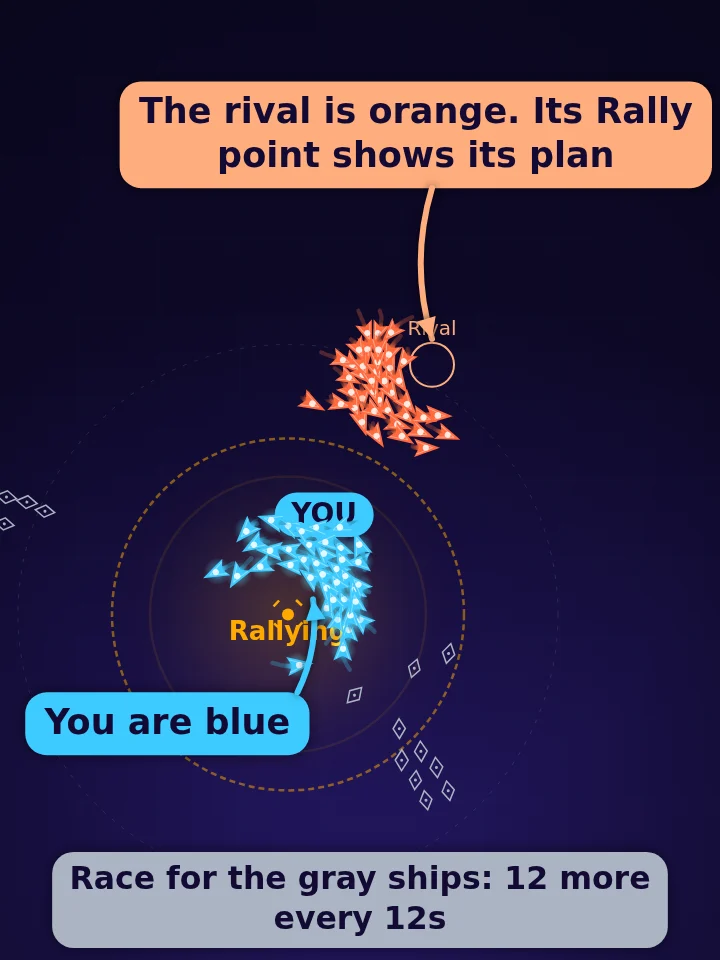
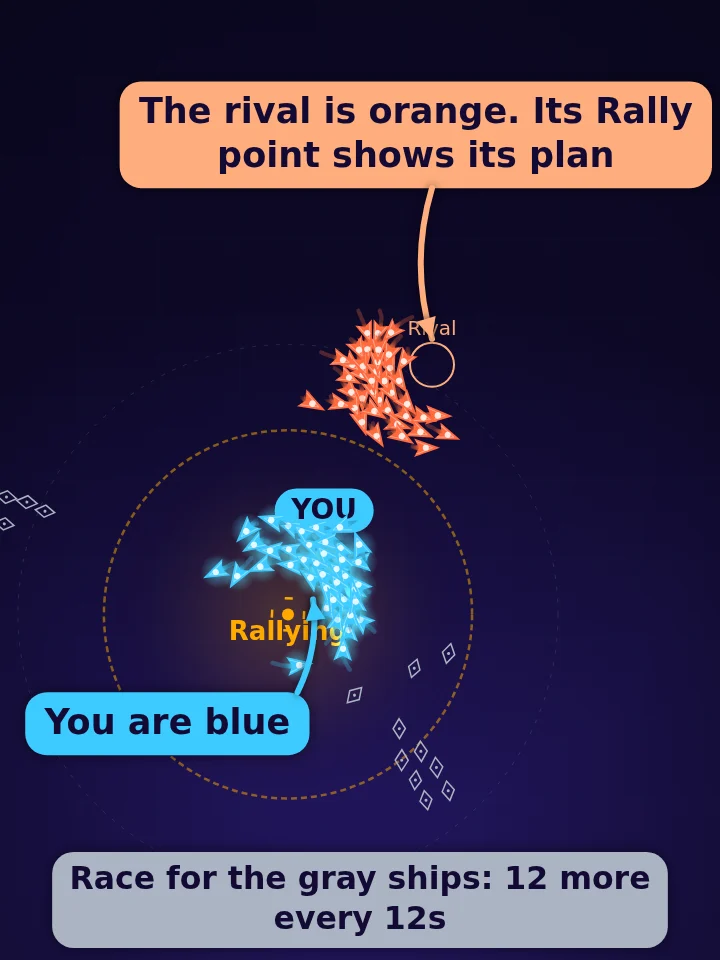
Remove tap-to-Rally: Rally only while holding (#11)
Drops the latched Rally button and its tap-to-steer mode. Rally now lasts
exactly as long as a finger or mouse button is held. The phone HUD keeps
only Freeze, now bottom-right under the thumb. The tap-to-steer lesson and
field-guide step are gone; the first lesson's id is now 'rally'. Help,
README, guide text, pictures and tests are updated to match.

Claude-Session: https://claude.ai/code/session_01D6cp6dtdnrfVWKaUhrYFfg

diff --git a/scripts/guide/scenes.js b/scripts/guide/scenes.js
@@ -258,29 +258,24 @@ function mouse(x, y, button = 'left') {
 }
 
 /**
- * The phone's Rally and Freeze buttons, drawn where the real ability bar sits
- * (104 CSS px circles, 22px apart, 16px from the bottom of a 390px screen).
+ * The phone's Freeze button, drawn where the real ability bar puts it
+ * (a 92 CSS px circle, 14px in from the bottom-right corner of a 390px screen).
  */
-function phoneButtons(sim, { lit = null, freezeReady = true } = {}) {
-    const u = 720 / 390, r = 52 * u, gap = 22 * u, y = sim.height - 16 * u - r;
-    const spots = { rally: sim.width / 2 - gap / 2 - r, freeze: sim.width / 2 + gap / 2 + r };
-    const draw = (id, x, colors, glyph, label, keyLabel) => {
-        ctx.save();
-        ctx.shadowColor = 'rgba(0,0,0,0.5)'; ctx.shadowBlur = 20;
-        const g = ctx.createRadialGradient(x, y - r * 0.4, 0, x, y, r);
-        g.addColorStop(0, colors[0]); g.addColorStop(1, colors[1]);
-        ctx.beginPath(); ctx.arc(x, y, r, 0, Math.PI * 2); ctx.fillStyle = g; ctx.fill();
-        ctx.shadowBlur = 0;
-        if (id === lit) { ctx.lineWidth = 8; ctx.strokeStyle = '#ffffff'; ctx.stroke(); ring(x, y, r + 18, { color: '#ffffff', dash: [8, 8], width: 3 }); }
-        ctx.fillStyle = '#fff'; ctx.textAlign = 'center'; ctx.textBaseline = 'middle';
-        ctx.font = `800 ${10 * u}px system-ui, sans-serif`; ctx.globalAlpha = 0.85; ctx.fillText(keyLabel, x, y - r * 0.62); ctx.globalAlpha = 1;
-        ctx.font = `${30 * u}px system-ui, sans-serif`; ctx.fillText(glyph, x, y - r * 0.08);
-        ctx.font = `700 ${15 * u}px Fredoka, system-ui, sans-serif`; ctx.fillText(label, x, y + r * 0.45);
-        ctx.restore();
-    };
-    draw('rally', spots.rally, ['#ffb347', '#e0700a'], '◎', 'Rally', 'HOLD');
-    if (freezeReady) draw('freeze', spots.freeze, ['#8ff5ee', '#1fb3c0'], '❄', 'Freeze', 'TAP');
-    return { rally: { x: spots.rally, y, r }, freeze: { x: spots.freeze, y, r } };
+function phoneButtons(sim, { lit = null } = {}) {
+    const u = 720 / 390, r = 46 * u, x = sim.width - 14 * u - r, y = sim.height - 14 * u - r;
+    ctx.save();
+    ctx.shadowColor = 'rgba(0,0,0,0.5)'; ctx.shadowBlur = 20;
+    const g = ctx.createRadialGradient(x, y - r * 0.4, 0, x, y, r);
+    g.addColorStop(0, '#8ff5ee'); g.addColorStop(1, '#1fb3c0');
+    ctx.beginPath(); ctx.arc(x, y, r, 0, Math.PI * 2); ctx.fillStyle = g; ctx.fill();
+    ctx.shadowBlur = 0;
+    if (lit === 'freeze') { ctx.lineWidth = 8; ctx.strokeStyle = '#ffffff'; ctx.stroke(); ring(x, y, r + 18, { color: '#ffffff', dash: [8, 8], width: 3 }); }
+    ctx.fillStyle = '#fff'; ctx.textAlign = 'center'; ctx.textBaseline = 'middle';
+    ctx.font = `800 ${10 * u}px system-ui, sans-serif`; ctx.globalAlpha = 0.85; ctx.fillText('TAP', x, y - r * 0.62); ctx.globalAlpha = 1;
+    ctx.font = `${30 * u}px system-ui, sans-serif`; ctx.fillText('❄', x, y - r * 0.08);
+    ctx.font = `700 ${15 * u}px Fredoka, system-ui, sans-serif`; ctx.fillText('Freeze', x, y + r * 0.45);
+    ctx.restore();
+    return { freeze: { x, y, r } };
 }
 
 /** Counts in a corner: "You 30 · Coral 8". */
@@ -326,23 +321,6 @@ const SCENES = {
         tag(pick('Hold the left mouse button and drag', 'Hold a finger down and drag'), sim.width / 2, pick(60, 70), { color: '#ffaa00', maxWidth: pick(9999, 660) });
         note('Ships inside the orange ring follow', { x: to.x - 120, y: to.y + 110 }, [[-40, 170], [-60, 250]], { color: '#ffaa00' });
         if (!PHONE) { mouse(sim.width * 0.1, sim.height * 0.86, 'left'); tag('Left button', sim.width * 0.1 + 40, sim.height * 0.86, { color: DARK, ink: '#fff', size: 16, align: 'left' }); }
-        end();
-    },
-
-    // Phones only: the latched Rally button.
-    'tap-rally'(game = world({ seed: 7 })) {
-        const { sim } = game, player = sim.commander('dragon');
-        cluster(sim, 'dragon', 30, at(sim, [0.3, 0.6], [0.3, 0.5]), 90);
-        const to = at(sim, [0.7, 0.4], [0.62, 0.26]);
-        game.input.pointer = to;
-        run(game, 1.1, () => player.rally(to.x, to.y));
-        begin();
-        const buttons = phoneButtons(sim, { lit: 'rally', freezeReady: false });
-        badge(1, buttons.rally.x - buttons.rally.r - 40, buttons.rally.y - buttons.rally.r);
-        note('Tap Rally: it stays on until you tap it again', { x: buttons.rally.x, y: buttons.rally.y - buttons.rally.r }, [[0, -160], [60, -170]], { color: '#ffaa00' });
-        pointer(to.x + 6, to.y + 6);
-        badge(2, to.x - 70, to.y - 70);
-        tag('Tap where to go. Tap again to steer', sim.width / 2, 60, { color: '#ffaa00', maxWidth: 660 });
         end();
     },
 
@@ -429,7 +407,7 @@ const SCENES = {
         span(c.x, c.y, sim.commander('dragon').freezeRadius, pick(0.35, 0.6), `${sim.rules.freezeRadius}px`, '#b6edff');
         if (PHONE) {
             const buttons = phoneButtons(sim, { lit: 'freeze' });
-            badge(1, buttons.freeze.x + buttons.freeze.r + 34, buttons.freeze.y - buttons.freeze.r);
+            badge(1, buttons.freeze.x - buttons.freeze.r - 30, buttons.freeze.y - buttons.freeze.r);
             tag('Tap ❄ Freeze', buttons.freeze.x, buttons.freeze.y - buttons.freeze.r - 60, { color: '#b6edff' });
             pointer(c.x + 4, c.y + 4);
             badge(2, c.x - 60, c.y - 60);
@@ -607,7 +585,7 @@ function freezeSetup(game) {
 }
 
 /** Scenes that only make sense on one kind of device. */
-const ONLY = { 'tap-rally': 'phone' };
+const ONLY = {};
 const IDS = Object.keys(SCENES).filter(id => !ONLY[id] || ONLY[id] === DEVICE);
 
 /** Annotates a screenshot of the real HUD with the rectangles of its controls. */
@@ -627,14 +605,12 @@ globalThis.annotateHud = async (url, rects, scale, type = 'image/webp', quality 
         ['pause', 'Pause', 0, 150, 'left'],
         ['timer', 'Time & score', 0, 100],
         ['details', 'Arena share', -10, 150, 'right'],
-        ['rally', 'Tap Rally, then tap where to go', 60, -110],
-        ['freeze', 'Tap Freeze, then tap rivals', -60, -190],
+        ['freeze', 'Tap Freeze, then tap rivals', -150, -190, 'right'],
     ] : [
         ['pause', 'Pause · Esc or P', 0, 110, 'left'],
         ['timer', 'Match time & score', 0, 120],
         ['guide', 'Hints', -170, 100],
         ['details', 'Share of the arena & fleet sizes', 10, 190, 'right'],
-        ['rally', 'Rally (mainly for touch)', -40, -120, 'right'],
         ['freeze', 'Freeze · Space counts down until ready', 40, -120, 'left'],
     ];
     const W = image.width / scale;

diff --git a/app.css b/app.css
@@ -286,10 +286,8 @@ details summary { cursor: pointer; min-height: var(--tap); display: flex; align-
 /* Round arcade buttons, bottom-centre on desktop, thumb corners on phones. */
 .ability-bar { position: fixed; z-index: 35; left: 50%; transform: translateX(-50%); bottom: calc(16px + var(--safe-bottom)); display: flex; gap: 22px; pointer-events: none; }
 .ability { pointer-events: auto; position: relative; overflow: hidden; width: 104px; height: 104px; padding: 0; display: grid; justify-items: center; align-content: center; gap: 0; border: 0; border-radius: 50%; color: #fff; background: radial-gradient(circle at 50% 30%, #3b2c8f, #1d1450); box-shadow: 0 6px 0 #0f0930, 0 12px 30px #0008, inset 0 0 0 3px #ffffff22; transition: transform .08s, box-shadow .08s; }
-#slot-rally { background: radial-gradient(circle at 50% 30%, #ffb13b, #e0661a); box-shadow: 0 6px 0 #9a3f07, 0 12px 30px #ff8a3d44, inset 0 0 0 3px #ffffff33; }
 #slot-freeze { animation: pop-in .4s cubic-bezier(.2, .9, .3, 1.6); background: radial-gradient(circle at 50% 30%, #7ff7ee, #1aa9c9); box-shadow: 0 6px 0 #0c6a80, 0 12px 30px #37e2d544, inset 0 0 0 3px #ffffff33; }
 .ability:active, .ability.active { transform: translateY(4px) scale(0.97); }
-#slot-rally.active { box-shadow: 0 2px 0 #9a3f07, 0 0 0 6px #ffb13b55, 0 0 40px #ffb13b88, inset 0 0 0 3px #fff8; }
 #slot-freeze.aiming { box-shadow: 0 2px 0 #0c6a80, 0 0 0 6px #7ff7ee66, 0 0 40px #7ff7ee88, inset 0 0 0 3px #fff8; transform: translateY(4px); }
 .ability.locked { filter: grayscale(1) brightness(0.6); }
 .ability-key { position: absolute; top: 14px; left: 0; right: 0; text-align: center; font-size: 10px; font-weight: 800; letter-spacing: 0.1em; text-transform: uppercase; color: #fffc; }
@@ -338,7 +336,7 @@ details summary { cursor: pointer; min-height: var(--tap); display: flex; align-
     .stat dd { font-size: 22px; }
     .chip-label { display: none; }
     .hud-chips .chip { width: var(--tap); padding: 0; font-size: 18px; }
-    .ability-bar { left: calc(14px + var(--safe-left)); right: calc(14px + var(--safe-right)); transform: none; justify-content: space-between; bottom: calc(14px + var(--safe-bottom)); }
+    .ability-bar { left: calc(14px + var(--safe-left)); right: calc(14px + var(--safe-right)); transform: none; justify-content: flex-end; bottom: calc(14px + var(--safe-bottom)); }
     .ability { width: 92px; height: 92px; }
     .ability-key { display: none; }
     .setting-row { grid-template-columns: 1fr auto; padding: 6px 0; }

diff --git a/js/input.js b/js/input.js
@@ -9,7 +9,6 @@ export class InputHandler {
         this.game = game;
         this.pointer = new Vector(window.innerWidth / 2, window.innerHeight / 2);
         this.pointerId = null;
-        this.rallyLatched = false;
         this.freezeAiming = false;
         this.isTouch = Boolean(window.matchMedia?.('(pointer: coarse)').matches);
         const playing = () => game.gameState === 'playing';
@@ -36,16 +35,13 @@ export class InputHandler {
             game.setRally(true);
         });
         canvas.addEventListener('pointermove', event => {
-            // A latched (tap) Rally moves only on deliberate taps, not on hover.
-            if (this.rallyLatched && this.pointerId === null && !this.freezeAiming) return;
             if (this.pointerId !== null && event.pointerId !== this.pointerId) return;
             locate(event);
         });
         const release = event => {
             if (event.pointerId !== this.pointerId) return;
             this.pointerId = null;
-            if (event.type !== 'pointerup') this.rallyLatched = false;
-            if (playing() && !this.rallyLatched) game.setRally(false);
+            if (playing()) game.setRally(false);
         };
         for (const type of ['pointerup', 'pointercancel', 'lostpointercapture']) canvas.addEventListener(type, release);
         canvas.addEventListener('contextmenu', event => event.preventDefault());
@@ -65,18 +61,11 @@ export class InputHandler {
 
     reset() {
         this.pointerId = null;
-        this.rallyLatched = false;
         this.freezeAiming = false;
     }
 
     /** Ends the current drag without releasing Rally twice (Freeze already released it). */
     endGesture() { this.pointerId = null; }
-
-    toggleRally() {
-        if (this.game.gameState !== 'playing') return;
-        this.rallyLatched = !this.game.player.rallying;
-        this.game.setRally(this.rallyLatched);
-    }
 
     /** Touch aims Freeze with a second tap; mouse and keyboard cast at the pointer. */
     pressFreeze() {
@@ -84,7 +73,6 @@ export class InputHandler {
         if (game.gameState !== 'playing' || game.player.freezeWait > 0) return;
         if (!this.isTouch) { game.castFreeze(); return; }
         game.setRally(false);
-        this.rallyLatched = false;
         this.pointerId = null;
         this.freezeAiming = !this.freezeAiming;
     }

diff --git a/js/guide.js b/js/guide.js
@@ -22,8 +22,8 @@ export const GUIDE = [
         step('fleets', 'Who is who', 'Your fleet is the one marked YOU. Every other colour is a rival. Gray diamonds belong to nobody. You win when every ship flies your colour.',
             'Your cyan fleet labelled YOU, a red and an orange rival fleet, and a group of gray diamond ships.'),
         step('hud', 'Your screen', {
-            phone: 'Pause is top left, time and score in the middle, and your share of the arena top right. Rally and Freeze are the two big buttons at the bottom.',
-            desktop: 'Pause is top left (or Esc). Time and score sit in the middle; Details, top right, shows your share of the arena. You will mostly use the mouse and Space instead of the buttons at the bottom.',
+            phone: 'Pause is top left, time and score in the middle, and your share of the arena top right. Freeze is the big button at the bottom; Rally is just your finger.',
+            desktop: 'Pause is top left (or Esc). Time and score sit in the middle; Details, top right, shows your share of the arena. The mouse moves your fleet; Space casts Freeze.',
         }, 'A live match with its controls outlined and labelled.'),
     ] },
     { id: 'move', title: 'Move', icon: '◎', steps: [
@@ -31,8 +31,6 @@ export const GUIDE = [
             phone: r => `Put a finger on the arena and keep it down. Your ships within ${r.rallyRadius}px of it rally to it and follow as you drag.`,
             desktop: r => `Hold the left mouse button in the arena and drag. Your ships within ${r.rallyRadius}px of the pointer rally to it and follow.`,
         }, 'Cyan ships streaming along a dragged path toward an orange Rally ring.'),
-        step('tap-rally', 'Or tap to steer', 'Tired thumbs? Tap the Rally button once and it stays on. Now tap anywhere to send your fleet there, and tap again to change course. Tap Rally again to let go.',
-            'The Rally button highlighted, with numbered taps on the button and on the arena.', 'phone'),
         step('rally-disarmed', 'Moving means not attacking', 'While Rally is held your ships cannot recruit, and rivals nearby are pushed away. Use it to get into position.',
             'The fleet packed inside the orange Rally ring while a red group drifts away.'),
         step('release', 'Let go beside a group', {

diff --git a/js/lessons.js b/js/lessons.js
@@ -7,14 +7,10 @@ const lesson = data => ({ ...base, ...data });
 const s = seconds => `${Math.round(seconds * 10) / 10} seconds`;
 
 export const LESSONS = [
-    lesson({ id: 'gather', title: 'Move as one', duration: '30 sec', enemies: [], abilities: [], target: { x: 0.68, y: 0.44 },
+    lesson({ id: 'rally', title: 'Move as one', duration: '30 sec', enemies: [], abilities: [], target: { x: 0.68, y: 0.44 },
         description: 'One gesture moves your fleet.', instruction: 'Hold and drag to the circle. Release when 12 ships arrive.',
         hint: 'Hold near the circle until your ships catch up.', success: 'Hold to move. Release to recruit.',
         goals: [goal('Rally 12 ships into the circle', p => p.arrived >= 12), goal('Release your swarm', p => p.arrived >= 12 && p.released)] }),
-    lesson({ id: 'tap-rally', title: 'Tap to steer', duration: '30 sec', enemies: [], abilities: [], target: { x: 0.68, y: 0.44 },
-        description: 'Move your fleet without holding a finger down.', instruction: 'Tap Rally, then tap the circle. Tap Release when 12 ships arrive.',
-        hint: 'You can tap a new destination while Rally stays on.', success: 'Use taps or hold-and-drag. Both work on desktop and touch.',
-        goals: [goal('Steer with tap Rally', p => p.tapSteered), goal('Rally twelve, then release', p => p.arrived >= 12 && p.released)] }),
     lesson({ id: 'surround', title: 'Surround rivals', enemies: [enemy(8)], abilities: [],
         description: 'Outnumber rivals to recruit them.', instruction: 'Rally beside the coral ships. Release to recruit all eight.',
         hint: 'Your ships cannot recruit while Rally is held.', success: 'Rally, approach, release.',
@@ -83,7 +79,7 @@ export const LESSONS = [
 export function lessonText(value, rules) { return typeof value === 'function' ? value(rules) : value; }
 
 export function freshLessonProgress() {
-    return { held: false, released: false, tapSteered: false, neutralRecruits: 0, arrived: 0, recruited: 0, freezeHits: 0, freezeCasts: 0, frozenRecruits: 0,
+    return { held: false, released: false, neutralRecruits: 0, arrived: 0, recruited: 0, freezeHits: 0, freezeCasts: 0, frozenRecruits: 0,
         enemiesLeft: Infinity, waypoints: 0, nebulaSeen: false, shifts: 0, sectors: 0, waves: 1 };
 }
 

diff --git a/js/ui.js b/js/ui.js
@@ -86,7 +86,6 @@ export class UIManager {
         on('btn-intro-secondary', () => (game.practice ? game.tutorial.showLessons() : game.quitToMenu()));
         on('btn-reset-settings', () => { resetSettings(); this.buildSettings(); this.toast('Settings restored to defaults.'); });
         on('btn-reset-progress', () => this.clearProgress());
-        $('slot-rally').addEventListener('click', () => game.input.toggleRally());
         $('slot-freeze').addEventListener('click', () => game.input.pressFreeze());
         $('btn-details').addEventListener('click', () => this.setDetailsOpen($('details-sheet').classList.contains('hidden')));
         $('btn-close-details').addEventListener('click', () => this.setDetailsOpen(false));
@@ -491,14 +490,7 @@ export class UIManager {
     }
 
     refreshAbilities(player) {
-        const input = this.game.input, rules = this.game.rules, rally = $('slot-rally'), freeze = $('slot-freeze');
-        const cooling = !player.rallying && player.coolOff > 0, wait = player.freezeWait;
-        rally.classList.toggle('active', player.rallying);
-        rally.classList.toggle('cooling', cooling);
-        rally.setAttribute('aria-pressed', String(player.rallying));
-        rally.querySelector('.ability-label').textContent = input.rallyLatched ? 'Release' : 'Rally';
-        $('rally-status').textContent = player.rallying ? (input.rallyLatched ? 'Tap to move' : 'Release to recruit') : cooling ? `Recruit in ${player.coolOff.toFixed(1)}s` : '';
-        $('rally-cooldown').style.height = cooling ? `${player.coolOff / rules.rallyCoolOff * 100}%` : '0%';
+        const input = this.game.input, rules = this.game.rules, freeze = $('slot-freeze'), wait = player.freezeWait;
         freeze.classList.toggle('hidden', this.game.gameTime < rules.freezeLockout);
         freeze.classList.toggle('cooling', wait > 0);
         freeze.classList.toggle('aiming', input.freezeAiming);

diff --git a/index.html b/index.html
@@ -106,7 +106,7 @@
             <ol id="help-steps" class="steps"></ol>
             <h3 class="section-title">Controls</h3>
             <dl class="controls">
-                <dt>Rally</dt><dd>Hold and drag in the arena. On touch, you can also tap Rally, then tap destinations.</dd>
+                <dt>Rally</dt><dd>Hold and drag anywhere in the arena. Let go to recruit.</dd>
                 <dt>Freeze</dt><dd>Space or right-click (Q, E, 1 and 2 also work). On touch, tap Freeze, then tap the arena.</dd>
                 <dt>Pause</dt><dd>Escape or P. R restarts the match.</dd>
             </dl>
@@ -180,10 +180,6 @@
         </aside>
 
         <div class="ability-bar">
-            <button type="button" id="slot-rally" class="ability" aria-pressed="false" title="Hold to move. Release to recruit.">
-                <span class="ability-key">Hold</span><span class="ability-icon" aria-hidden="true">◎</span><span class="ability-label">Rally</span>
-                <span id="rally-status" class="ability-status"></span><span id="rally-cooldown" class="ability-cooldown"></span>
-            </button>
             <button type="button" id="slot-freeze" class="ability">
                 <span class="ability-key">Space</span><span class="ability-icon" aria-hidden="true">❄</span><span class="ability-label">Freeze</span>
                 <span id="freeze-status" class="ability-status"></span><span id="freeze-cooldown" class="ability-cooldown"></span>

diff --git a/js/tutorial.js b/js/tutorial.js
@@ -20,7 +20,7 @@ export class TutorialMode {
         this.progress = freshLessonProgress();
         try {
             const current = localStorage.getItem(PROGRESS_KEY);
-            const saved = current ? JSON.parse(current) : JSON.parse(localStorage.getItem('swarm-lessons-v1') || '[]').filter(id => ['gather', 'surround', 'freeze'].includes(id));
+            const saved = current ? JSON.parse(current) : JSON.parse(localStorage.getItem('swarm-lessons-v1') || '[]').filter(id => ['surround', 'freeze'].includes(id));
             if (Array.isArray(saved)) this.completed = new Set(saved.filter(id => LESSONS.some(l => l.id === id)));
         } catch { /* Lessons also work without storage. */ }
     }
@@ -102,7 +102,6 @@ export class TutorialMode {
 
     update() {
         const game = this.game, sim = game.sim, p = this.progress, lesson = this.lesson, player = game.playerTeam;
-        if (game.input.rallyLatched) p.tapSteered = true;
         if (game.player.rallying) { p.held = true; p.released = false; }
         else if (p.held) p.released = true;
         const target = lesson.route?.[p.waypoints] || lesson.target;

diff --git a/README.md b/README.md
@@ -16,7 +16,7 @@ npm test             # every test, no browser needed
 
 ## Play
 
-- **Rally**: hold and drag in the arena; release beside a smaller group to recruit it. On touch you can also tap **Rally**, then tap destinations.
+- **Rally**: hold and drag anywhere in the arena; release beside a smaller group to recruit it.
 - **Freeze**: Space or right-click (Q, E, 1 and 2 also work). On touch, tap **Freeze**, then tap the arena. It stops half the rivals in range; frozen ships cannot recruit or defend.
 - **Pause**: Escape, P, the Pause button or your phone's back gesture. **R** restarts.
 
